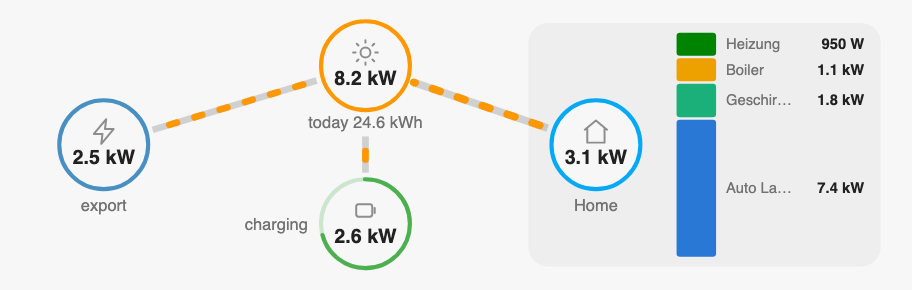
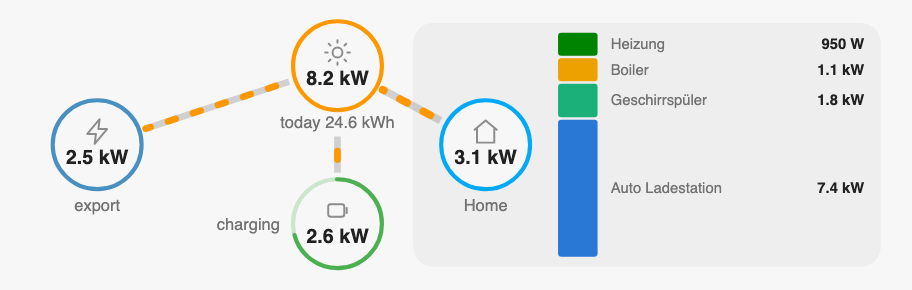
v0.9.0: give the consumer panel ~55% of the card width
Consumer names were the most space-starved content on the card while the
generation side had room to spare. Shift grid/pv/battery left and widen
the group panel from 41% to 54.6% of the viewBox.

- grid 46->42, pv/battery 205->188, house 345->278
- panel x 304->234, width 214->284; bar stays 24 wide as requested
- name field 84px -> 154px (1.8x). Of 12 rows across the test scenarios
  only one 23-char name still truncates; "Auto Ladestation" and
  "Geschirrspüler" now render in full.
- house re-centred in the panel's left region (17px clear either side)
  rather than hard against its edge
- name/bar gap 6->8px, suited to the roomier field

Battery sub-label still clears the grid ring by 45px; flow lines stay
89-95px, so the diagram keeps its proportions.

Changed region(s): [[0.0307, 0.0621, 0.8596, 0.931]]

diff --git a/compact-power-flow-card.js b/compact-power-flow-card.js
@@ -58,19 +58,22 @@
  * current charge/discharge power (no percentage is displayed).
  */
 
-const VERSION = "0.8.0";
+const VERSION = "0.9.0";
 
 // Consumer-column palette, shared with power-pie-card (CVD-safe hue order —
 // do not reorder).
 const PALETTE_LIGHT = ["#2a78d6", "#1baf7a", "#eda100", "#008300", "#4a3aa7", "#e34948"];
 const PALETTE_DARK = ["#3987e5", "#199e70", "#c98500", "#008300", "#9085e9", "#e66767"];
 
-// Node geometry inside the 520x160 viewBox.
+// Node geometry inside the 520x160 viewBox. The generation side (grid, pv,
+// battery) is packed into the left ~45% so the house + consumer panel can
+// take the rest: consumer names are the content that actually needs width.
 const NODE = {
-  pv: { cx: 205, cy: 32, r: 27 },
-  grid: { cx: 46, cy: 80, r: 27 },
-  house: { cx: 345, cy: 80, r: 27 },
-  battery: { cx: 205, cy: 128, r: 27 },
+  pv: { cx: 188, cy: 32, r: 27 },
+  grid: { cx: 42, cy: 80, r: 27 },
+  // centred in the panel's left region (17px clear either side of the ring)
+  house: { cx: 278, cy: 80, r: 27 },
+  battery: { cx: 188, cy: 128, r: 27 },
 };
 
 // Narrowest an active flow line ever draws (SVG units). The smallest flow on
@@ -82,13 +85,16 @@ const MIN_FLOW_W = 1.5;
 // own power warrants, so a lone small flow stays visibly small.
 const ABS_FULL_W = 6000;
 
-// Consumer column geometry (right of the house node).
-const COL = { x: 394, w: 24, top: 12, bottom: 148, gap: 1.5, minSeg: 14, rx: 2 };
+// Consumer column geometry (right of the house node). `w` is the bar itself
+// and is deliberately narrow — widening it would only steal room from the
+// names, which are what needs the space.
+const COL = { x: 322, w: 24, top: 12, bottom: 148, gap: 1.5, minSeg: 14, rx: 2 };
 
 // The house node and the consumer column form one visual unit: a rounded
 // panel groups them. `pad` is the inner gutter the consumer values
-// right-align to.
-const GROUP = { x: 304, y: 6, w: 214, h: 148, rx: 12, pad: 10 };
+// right-align to. Sized to ~55% of the card so consumer names get roughly
+// twice the room they had when the panel was 41%.
+const GROUP = { x: 234, y: 6, w: 284, h: 148, rx: 12, pad: 10 };
 
 // Flow definitions; path d strings are generated from node coordinates.
 // Direction of travel = path direction.
@@ -526,7 +532,7 @@ class CompactPowerFlowCard extends HTMLElement {
     const parts = [];
     // Name column starts right of the bar; values are flush to the group
     // panel's inner gutter so they form a right-aligned second column.
-    const nameX = COL.x + COL.w + 6;
+    const nameX = COL.x + COL.w + 8;
     const valX = GROUP.x + GROUP.w - GROUP.pad;
     // Reserve only what the widest value in THIS set actually needs (measured
     // ~5.2px/char at 9px/600 sans-serif), so short values leave the names more

diff --git a/README.md b/README.md
@@ -89,8 +89,11 @@ proportionally (biggest at the bottom, small segments keep a readable minimum
 height). Each segment is labeled with its friendly name and current power —
 names left-aligned, watt values right-aligned into a second column — and a
 subtle rounded panel groups the column together with the house node, since the
-two belong together. Long names are truncated to whatever room the widest
-value in the current set leaves free.
+two belong together. That panel takes ~55 % of the card width, with the
+generation side (grid, PV, battery) packed into the left ~45 %: consumer names
+are the content that actually needs room, so most real appliance names
+("Geschirrspüler", "Auto Ladestation") fit in full. Anything still too long is
+truncated to whatever room the widest value in the current set leaves free.
 Tapping a segment opens the standard more-info dialog. Filter rules use the
 same `entity_id` glob / `domain` / `state` comparison / `area` semantics as
 power-pie-card. Without a `filter`, the column is absent.
